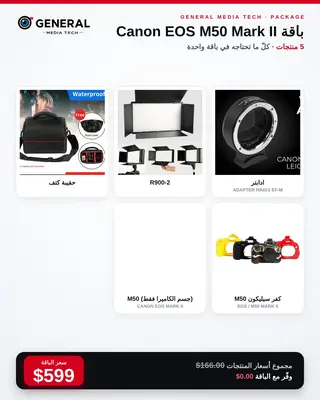
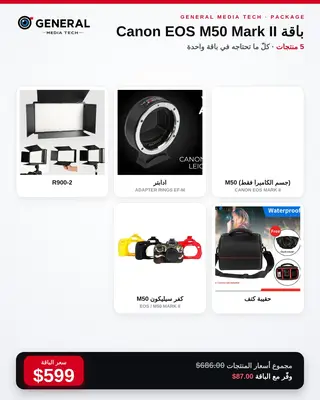
أسعار الجرد (M50 جسم 520 · R6 II 1450) وتحديث صور شبكة الباقات (seq 801)
Claude-Session: https://claude.ai/code/session_01XEjHNW9dqo1zWS8cEcUN7i

diff --git a/TASK_REGISTRY.md b/TASK_REGISTRY.md
@@ -358,7 +358,7 @@
 - **المالك:** `session_01XEjHNW9dqo1zWS8cEcUN7i` · **الحالة:** `DONE` — السبب: فلتر «مخزوني» الافتراضي في `pos.html renderProds` كان يُخفي `_is_offer` ذا رصيدٍ صفر في الفرع ⇒ استُثني العرض/الباقة · `t_pos_offers_live` 4/4 (يفشل بدون الإصلاح) · `gmt-v20261117a`. **قيد التنفيذ:** نظام الإشعارات الفورية (طلب seq 794 نفسه) — دراسة أوبوس ثمّ تنفيذ سونيت (TASK-B0420).
 
 ### TASK-B0500 — عروض إنستغرام الستة كباقات في المتجر (المالك seq 723 · 736 · 800)
-- **المالك:** `session_01XEjHNW9dqo1zWS8cEcUN7i` · **الحالة:** `DONE` — الستّ باقات في `gmt_offers` (المتجر + نقاط البيع · «باقات وعروض» · البوستر أوّلاً ثمّ الشبكة): RP 1050$ · EOS R 999$ · R6 II 1499$ · R6 II خاص 1424$ · **700D كرياتيف 390$** (بتعليمات المالك seq 800: عدسة 50mm = «Yonugnuo 50 1.8» الموجودة بالجرد) · **M50 Mark II 599$** (عُرِّف منتج جديد «Canon EOS M50 Mark II (جسم الكاميرا فقط)» منفصلاً عن «Content Creator Kit» — **سعره 0 وكمّيته 0 بانتظار تعبئة المالك**). **ملاحظات:** سعر R6 Mark II في الجرد 620$ فمجموع القطع أقلّ من سعر الباقة · كرت 32GB سعره 0 في الجرد · حقيبة الظهر في باقة R = «شنتاية ظهر كانون ميديوم» (افتراض) · عرض 1424$ (48 ساعة) بلا تاريخ انتهاء.
+- **المالك:** `session_01XEjHNW9dqo1zWS8cEcUN7i` · **الحالة:** `DONE` — الستّ باقات في `gmt_offers` (المتجر + نقاط البيع · «باقات وعروض» · البوستر أوّلاً ثمّ الشبكة): RP 1050$ · EOS R 999$ · R6 II 1499$ · R6 II خاص 1424$ · **700D كرياتيف 390$** (بتعليمات المالك seq 800: عدسة 50mm = «Yonugnuo 50 1.8» الموجودة بالجرد) · **M50 Mark II 599$** (عُرِّف منتج جديد «Canon EOS M50 Mark II (جسم الكاميرا فقط)» منفصلاً عن «Content Creator Kit» — سعره **520$** بتعليمات المالك seq 801 وكمّيته 0). **ملاحظات:** سعر R6 Mark II صُحّح في الجرد إلى **1450$** (seq 801) وأُعيدت صور الشبكة · كرت 32GB سعره 0 في الجرد · حقيبة الظهر في باقة R = «شنتاية ظهر كانون ميديوم» (افتراض) · عرض 1424$ (48 ساعة): بلا تاريخ انتهاء بقرار المالك seq 801 «انسى المدة».
 
 ### TASK-B0418 — تفاصيل الباقة كأمازون على الكمبيوتر + تطابق أسعار بنود الباقة (المالك seq 727) — الجبهة السادسة (الأخيرة من seq 727)
 - **المالك:** `session_01XEjHNW9dqo1zWS8cEcUN7i` · **الحالة:** `DONE` — `store.html`: على ≥1024px نافذة الباقة عمودان (معرض + شريط مصغّرات `_pkgBuildThumbs/_pkgGo` · كتلة سعر كبيرة `.pkg-amz` بدل الصناديق الثلاثة · قائمة المنتجات في إطار · زرّ السلّة تحت عمود المعلومات) والهاتف كما هو · «الأسعار مي زابطة»: تحقّقتُ أنّ إجماليات السلّة سليمة (379.99 + 1 توصيل = 380.99 كما في صورتك)، والعلّة الشكلية أنّ سعر القطعة بأربع خانات (15.0986) يُعرَض بخانتين فلا يطابق «السعر×الكمية» ⇒ `_orderLines` يقسّم السطر بسعرين بالسنت فيطابق كلّ سطرٍ والإجماليَّ تماماً · `t_store_pkg_desktop` 9 + `t_store_pkg_prices` 3 · `gmt-v20261115r`.

diff --git a/docs/التسليم_الشامل.md b/docs/التسليم_الشامل.md
@@ -756,3 +756,4 @@ TASK-0013 = TASK-0158 ✅ (فاتورة إعادة الإنشاء) · TASK-0105 
 | 2026-11-17 | Claude · session_01XEjHNW9dqo1zWS8cEcUN7i | (seq 798) **TASK-B0422** تفاصيل الباقة في نقطة البيع كأيّ منتج (كلّ الصور · الوصف · المنتجات متفرّقةً) + حذف بكج التجريب + إصلاح vibrate · `t_pos_offer_detail` 9 |
 | 2026-11-17 | Claude · session_01XEjHNW9dqo1zWS8cEcUN7i | (seq 799) **TASK-B0420** إصلاح «ما جا إشعارات»: اشتراك الأدمن (claim) + CTA في الرئيسية + فتح الإرسال '*' · t_push_ui 13 |
 | 2026-11-17 | Claude · session_01XEjHNW9dqo1zWS8cEcUN7i | (seq 800) **TASK-B0500** اكتمل: باقتا 700D (مع Yonugnuo 50) وM50 II (منتج جسم جديد بسعر 0 بانتظار المالك) · صور الشبكة |
+| 2026-11-17 | Claude · session_01XEjHNW9dqo1zWS8cEcUN7i | (seq 801) أسعار الجرد: جسم M50 II = 520$ · R6 Mark II = 1450$ (نسخة قديمة في gmt_trash) + تحديث أسعار مكوّنات الباقات وصور الشبكة · المدة 48 س متروكة |
